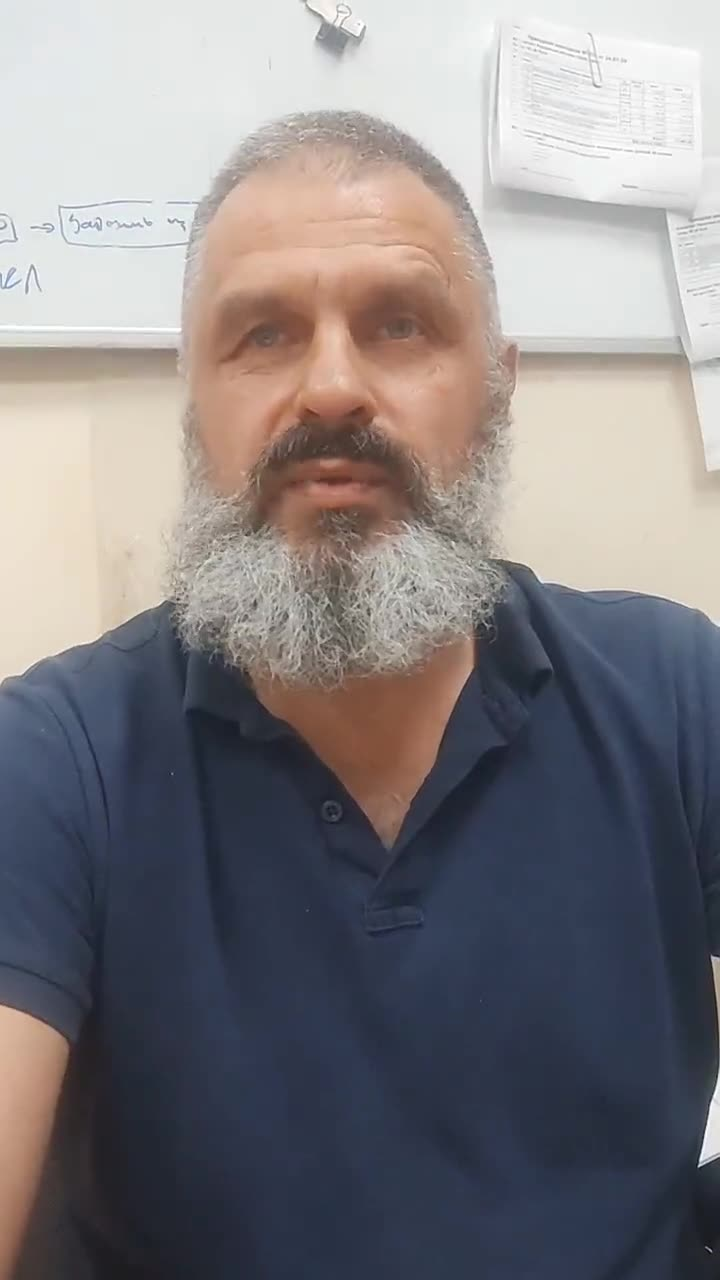
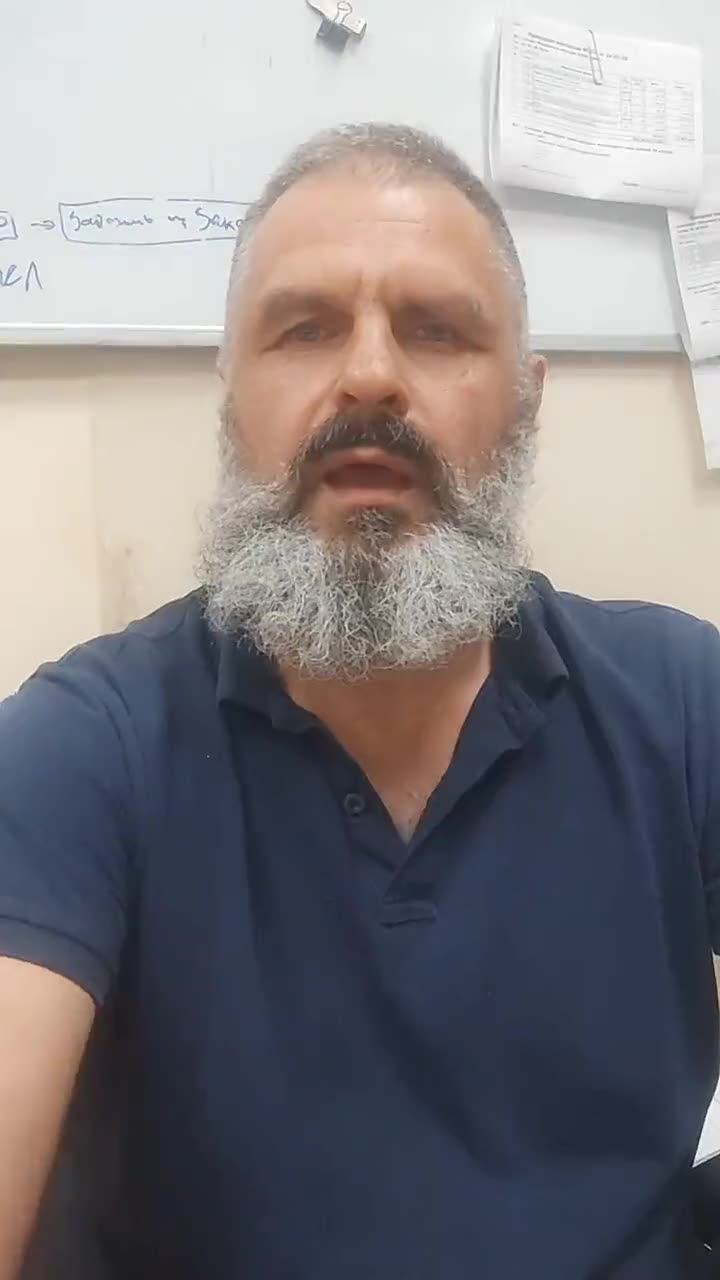
постеры на видеоотзывах — на мобильных был чёрный прямоугольник
В тёмной версии у отзывов не было атрибута poster: телефон не грузит
первый кадр сам, показывает пустоту. Постеры пересняты первым кадром
каждого ролика и приведены к 720x1280 — у Константина запись 464x848,
её кадр раньше был другого размера.

diff --git a/siistema/index.html b/siistema/index.html
@@ -271,21 +271,21 @@
     <h2 style="margin: 0 0 40px; font-size: clamp(28px,4.4vw,54px); line-height: 1.08; letter-spacing: -.028em; font-weight: 700;">Трое участников — <span style="color: var(--ac, #C9F14A);">своими словами</span></h2>
     <div style="display: grid; gap: 24px; grid-template-columns: repeat(auto-fit, minmax(300px, 1fr));">
       <figure style="margin: 0;">
-        <video controls="controls" preload="metadata" playsinline="playsinline" style="width: 100%; aspect-ratio: 9/16; height: auto; object-fit: cover; border: 1px solid rgba(255,255,255,.1); background: #000;">
+        <video controls="controls" preload="metadata" poster="media/otzyv-kostya.jpg" playsinline="playsinline" style="width: 100%; aspect-ratio: 9/16; height: auto; object-fit: cover; border: 1px solid rgba(255,255,255,.1); background: #000;">
           <source src="media/otzyv-kostya.mp4" type="video/mp4" />
           Ваш браузер не поддерживает видео. <a href="media/otzyv-kostya.mp4">Скачать</a>.
         </video>
         <figcaption style="margin-top: 12px; font-family: 'JetBrains Mono', monospace; font-size: 11px; letter-spacing: .08em; color: #6F7378; line-height: 1.7;"><span style="color: #C9CDD1;">Константин</span> · EasyLight · гибкое стекло, 13–15 млн ₽/мес</figcaption>
       </figure>
       <figure style="margin: 0;">
-        <video controls="controls" preload="metadata" playsinline="playsinline" style="width: 100%; aspect-ratio: 9/16; height: auto; object-fit: cover; border: 1px solid rgba(255,255,255,.1); background: #000;">
+        <video controls="controls" preload="metadata" poster="media/otzyv-alex.jpg" playsinline="playsinline" style="width: 100%; aspect-ratio: 9/16; height: auto; object-fit: cover; border: 1px solid rgba(255,255,255,.1); background: #000;">
           <source src="media/otzyv-alex.mp4" type="video/mp4" />
           Ваш браузер не поддерживает видео. <a href="media/otzyv-alex.mp4">Скачать</a>.
         </video>
         <figcaption style="margin-top: 12px; font-family: 'JetBrains Mono', monospace; font-size: 11px; letter-spacing: .08em; color: #6F7378; line-height: 1.7;"><span style="color: #C9CDD1;">Александр Б.</span> · селлер Ozon · сервис Seller-Power</figcaption>
       </figure>
 <figure style="margin: 0;">
-        <video controls="controls" preload="metadata" playsinline="playsinline" style="width: 100%; aspect-ratio: 9/16; height: auto; object-fit: cover; border: 1px solid rgba(255,255,255,.1); background: #000;">
+        <video controls="controls" preload="metadata" poster="media/otzyv-sergey.jpg" playsinline="playsinline" style="width: 100%; aspect-ratio: 9/16; height: auto; object-fit: cover; border: 1px solid rgba(255,255,255,.1); background: #000;">
           <source src="media/otzyv-sergey.mp4" type="video/mp4" />
           Ваш браузер не поддерживает видео. <a href="media/otzyv-sergey.mp4">Скачать</a>.
         </video>
